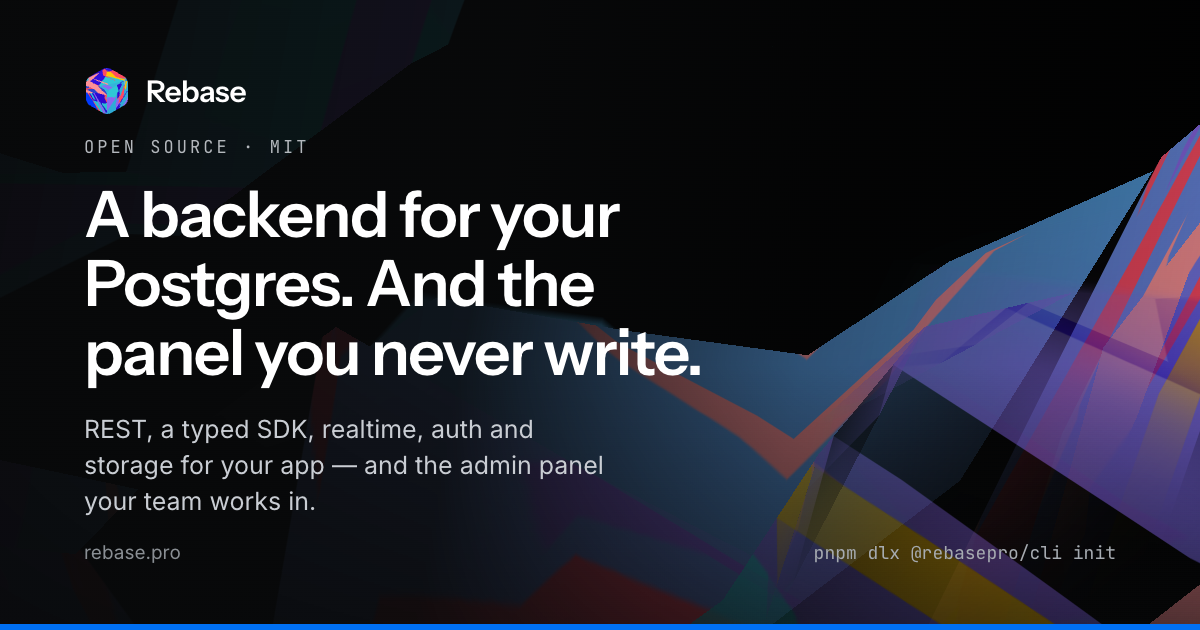
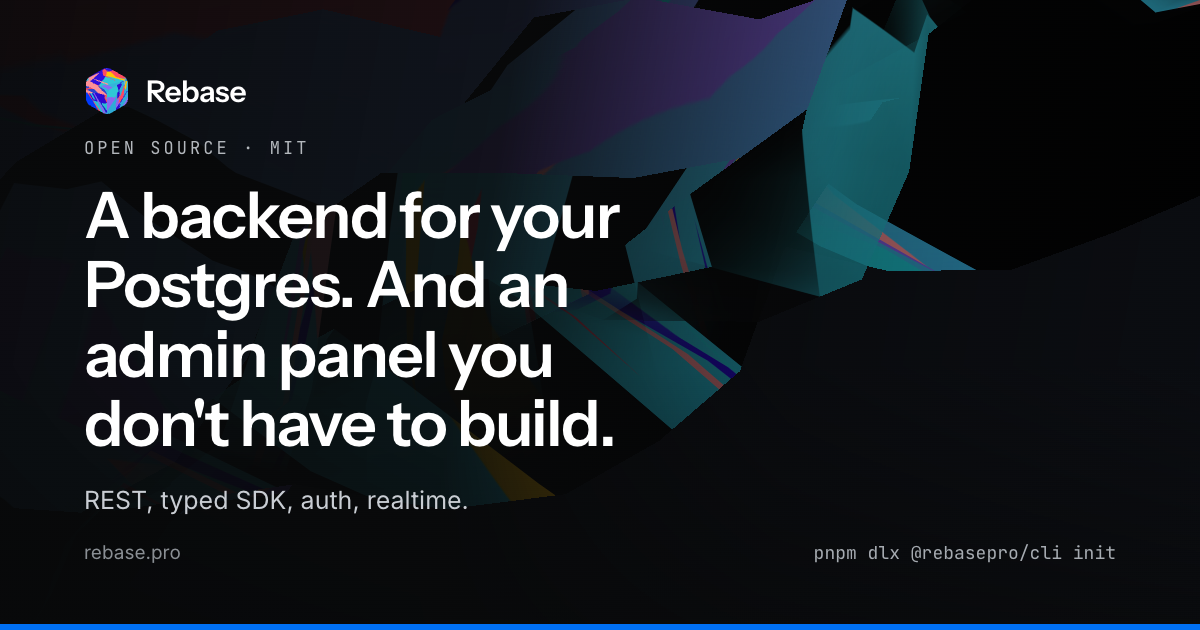
fix(website): the hero says what the panel line meant
"And the panel you never write." read as a riddle — which panel, write what.
It meant that Rebase generates the admin panel, so the second line now says
so: "A backend for your Postgres. And an admin panel you don't have to
build." Translated by hand in es/de/fr, same commit, so the stale-key walk
sees them move together.

The home share card carries the new headline; its subtitle is cut to one
line ("REST, typed SDK, auth, realtime.") because the longer title takes four
lines and the old subtitle ran into the footer and repeated "admin panel".

diff --git a/website/src/i18n/fr.ts b/website/src/i18n/fr.ts
@@ -1,7 +1,7 @@
 export const fr = {
   "hero.badge": "Backend open-source · MIT · N'importe quel Postgres",
   "hero.title.part1": "Un backend pour votre Postgres.",
-  "hero.title.part2": "Et le panel que vous n'écrivez jamais.",
+  "hero.title.part2": "Et un panneau d'administration que vous n'avez pas à construire.",
   "hero.subtitle":
     "REST, SDK typé, temps réel, auth et stockage pour votre app ; tableurs, médias, relations et rôles pour votre équipe. Notre propre CRM compte vingt-trois collections et pas un seul écran codé à la main.",
   "hero.cta.demo": "Tester la démo",

diff --git a/website/src/i18n/es.ts b/website/src/i18n/es.ts
@@ -1,7 +1,7 @@
 export const es = {
   "hero.badge": "Backend open-source · MIT · Cualquier Postgres",
   "hero.title.part1": "Un backend para tu Postgres.",
-  "hero.title.part2": "Y el panel que nunca escribes.",
+  "hero.title.part2": "Y un panel de administración que no tienes que construir.",
   "hero.subtitle":
     "REST, un SDK tipado, realtime, auth y storage para tu app; hojas de cálculo, multimedia, relaciones y roles para tu equipo. Nuestro propio CRM son veintitrés colecciones y ni una sola pantalla escrita a mano.",
   "hero.cta.demo": "Probar la demo",

diff --git a/website/src/i18n/de.ts b/website/src/i18n/de.ts
@@ -1,7 +1,7 @@
 export const de = {
   "hero.badge": "Open-Source-Backend · MIT · Jedes Postgres",
   "hero.title.part1": "Ein Backend für dein Postgres.",
-  "hero.title.part2": "Und das Panel, das du nie schreibst.",
+  "hero.title.part2": "Und ein Admin-Panel, das du nicht bauen musst.",
   "hero.subtitle":
     "REST, ein typisiertes SDK, Realtime, Auth und Storage für deine App; Tabellen, Medien, Relationen und Rollen für dein Team. Unser eigenes CRM besteht aus 23 Collections und keinem einzigen handgeschriebenen Screen.",
   "hero.cta.demo": "Demo testen",

diff --git a/website/src/i18n/en.ts b/website/src/i18n/en.ts
@@ -1,7 +1,7 @@
 export const en = {
   "hero.badge": "Open-source backend · MIT · Any Postgres",
   "hero.title.part1": "A backend for your Postgres.",
-  "hero.title.part2": "And the panel you never write.",
+  "hero.title.part2": "And an admin panel you don't have to build.",
   "hero.subtitle":
     "REST, a typed SDK, realtime, auth and storage for your app; spreadsheets, media, relations and roles for your team. Our own CRM is twenty-three collections and not one hand-written screen.",
   "hero.cta.demo": "Try the demo",
